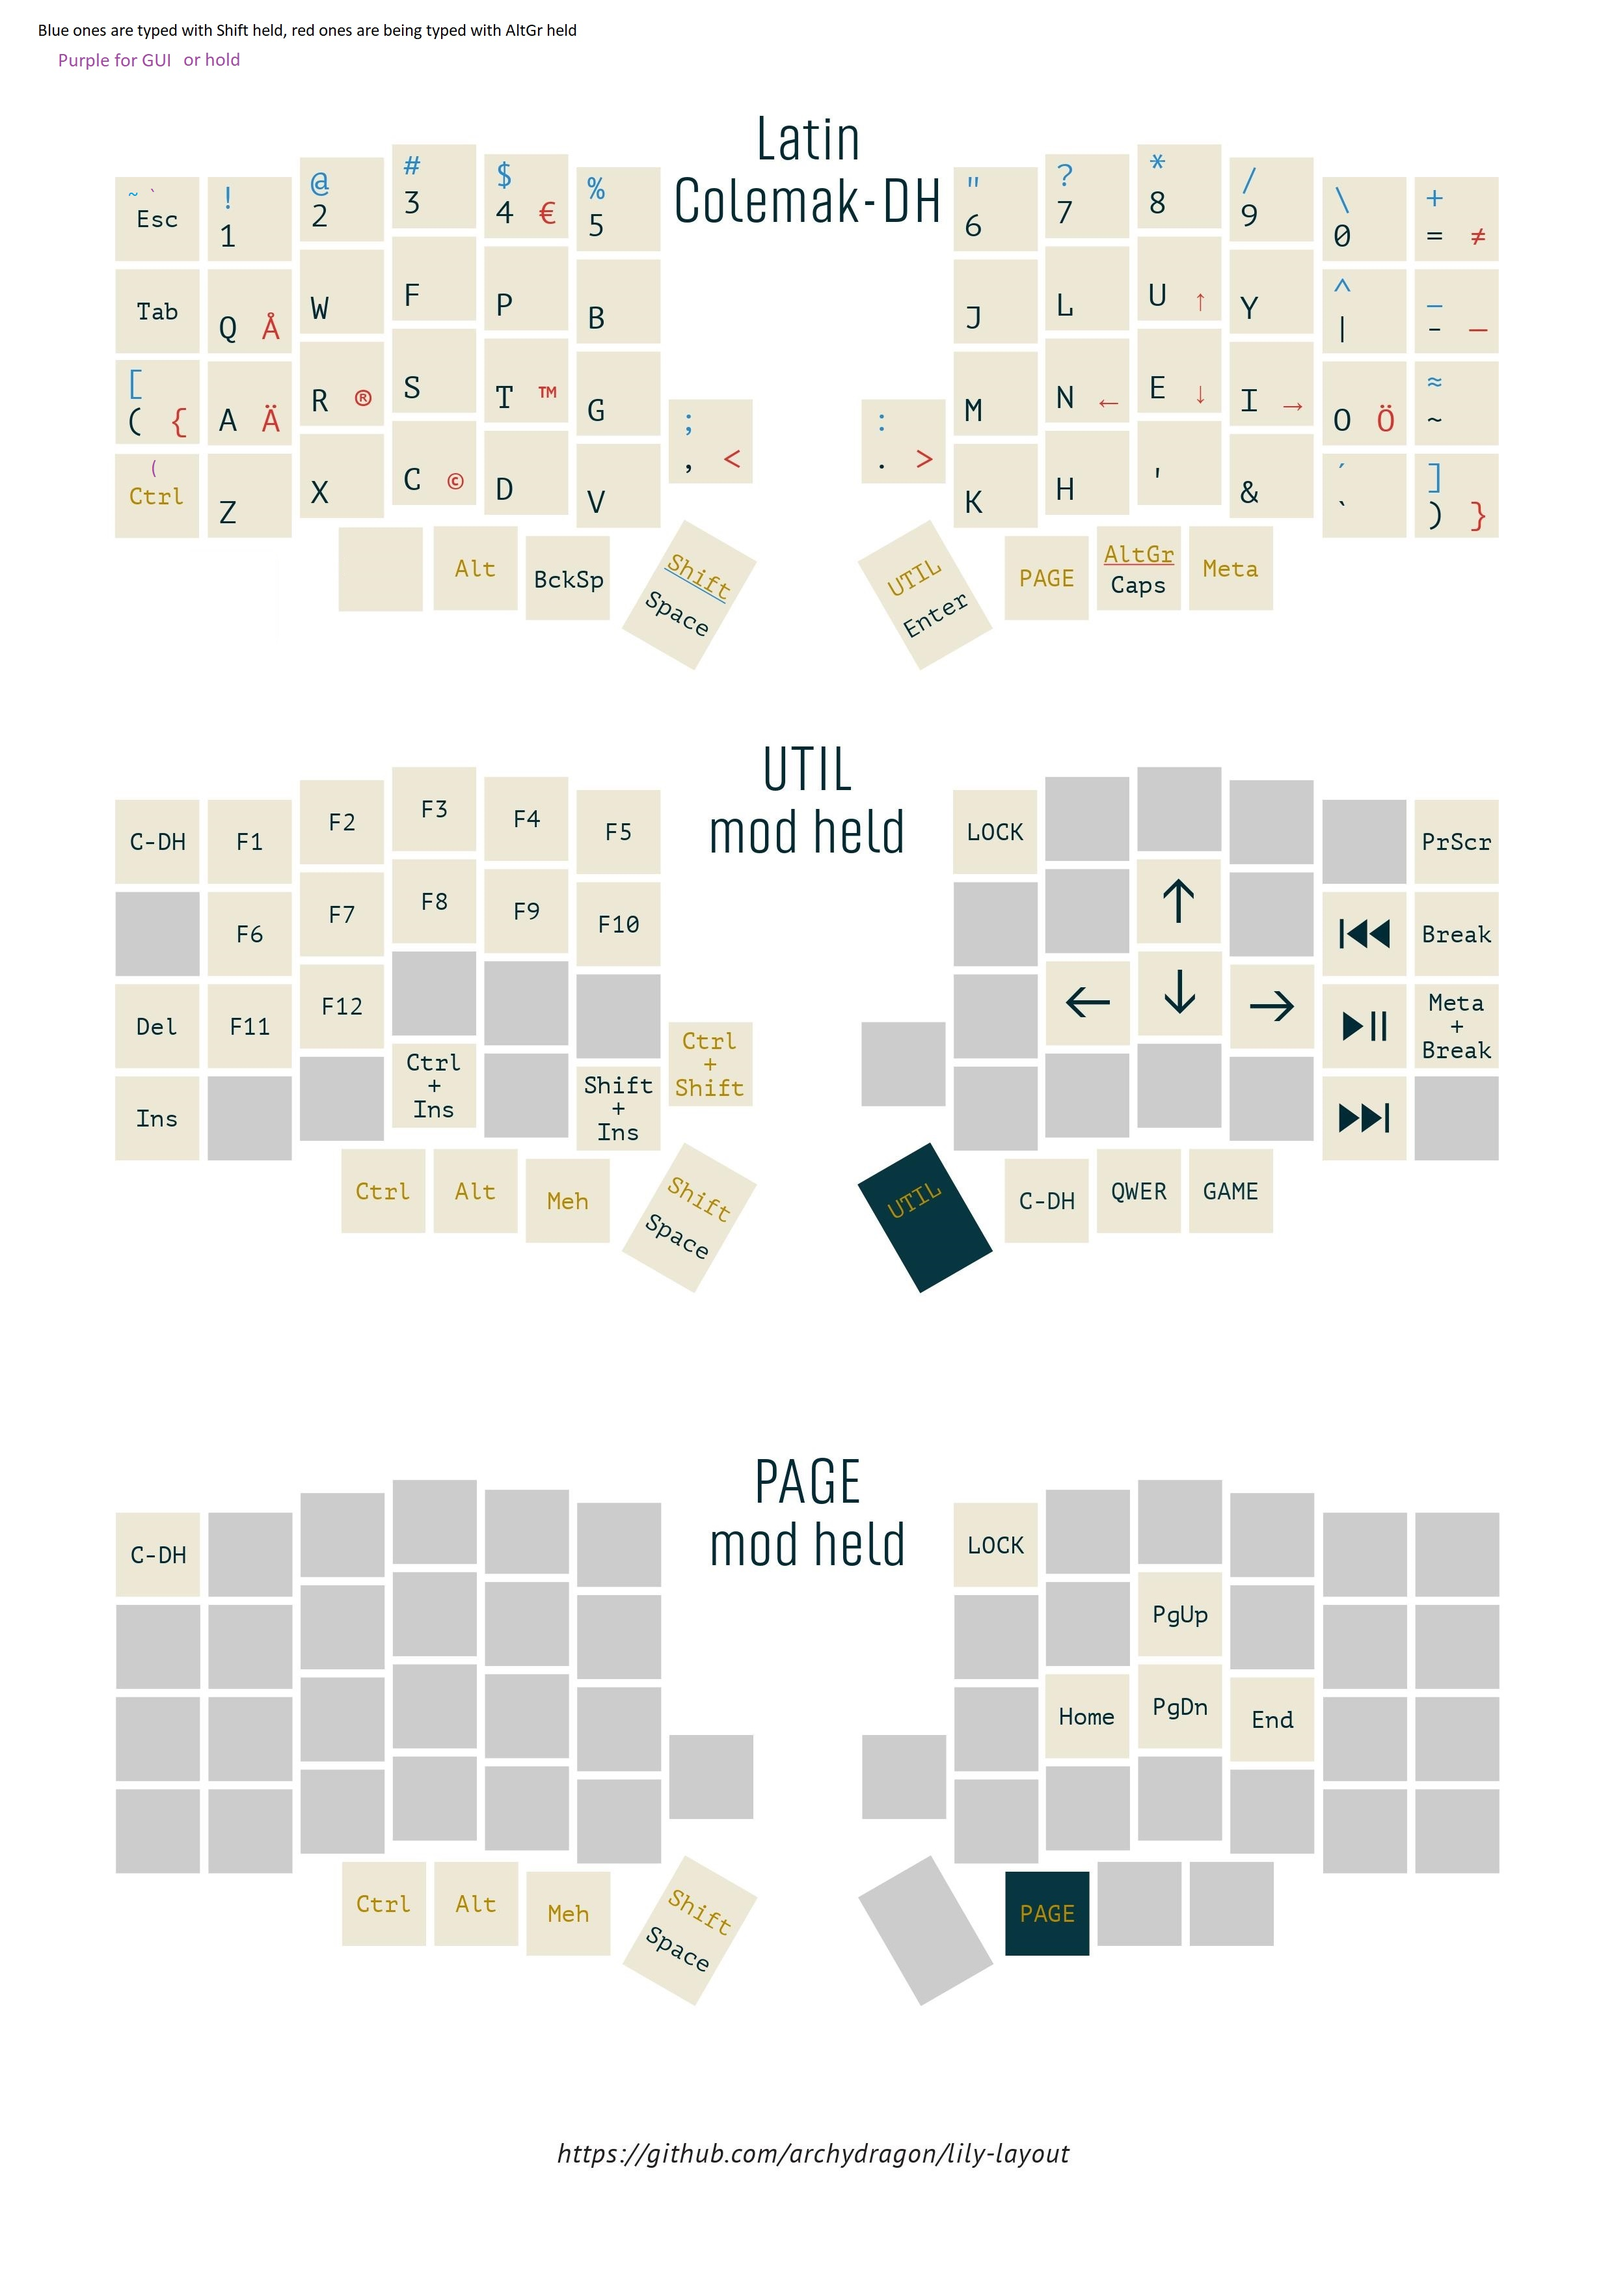
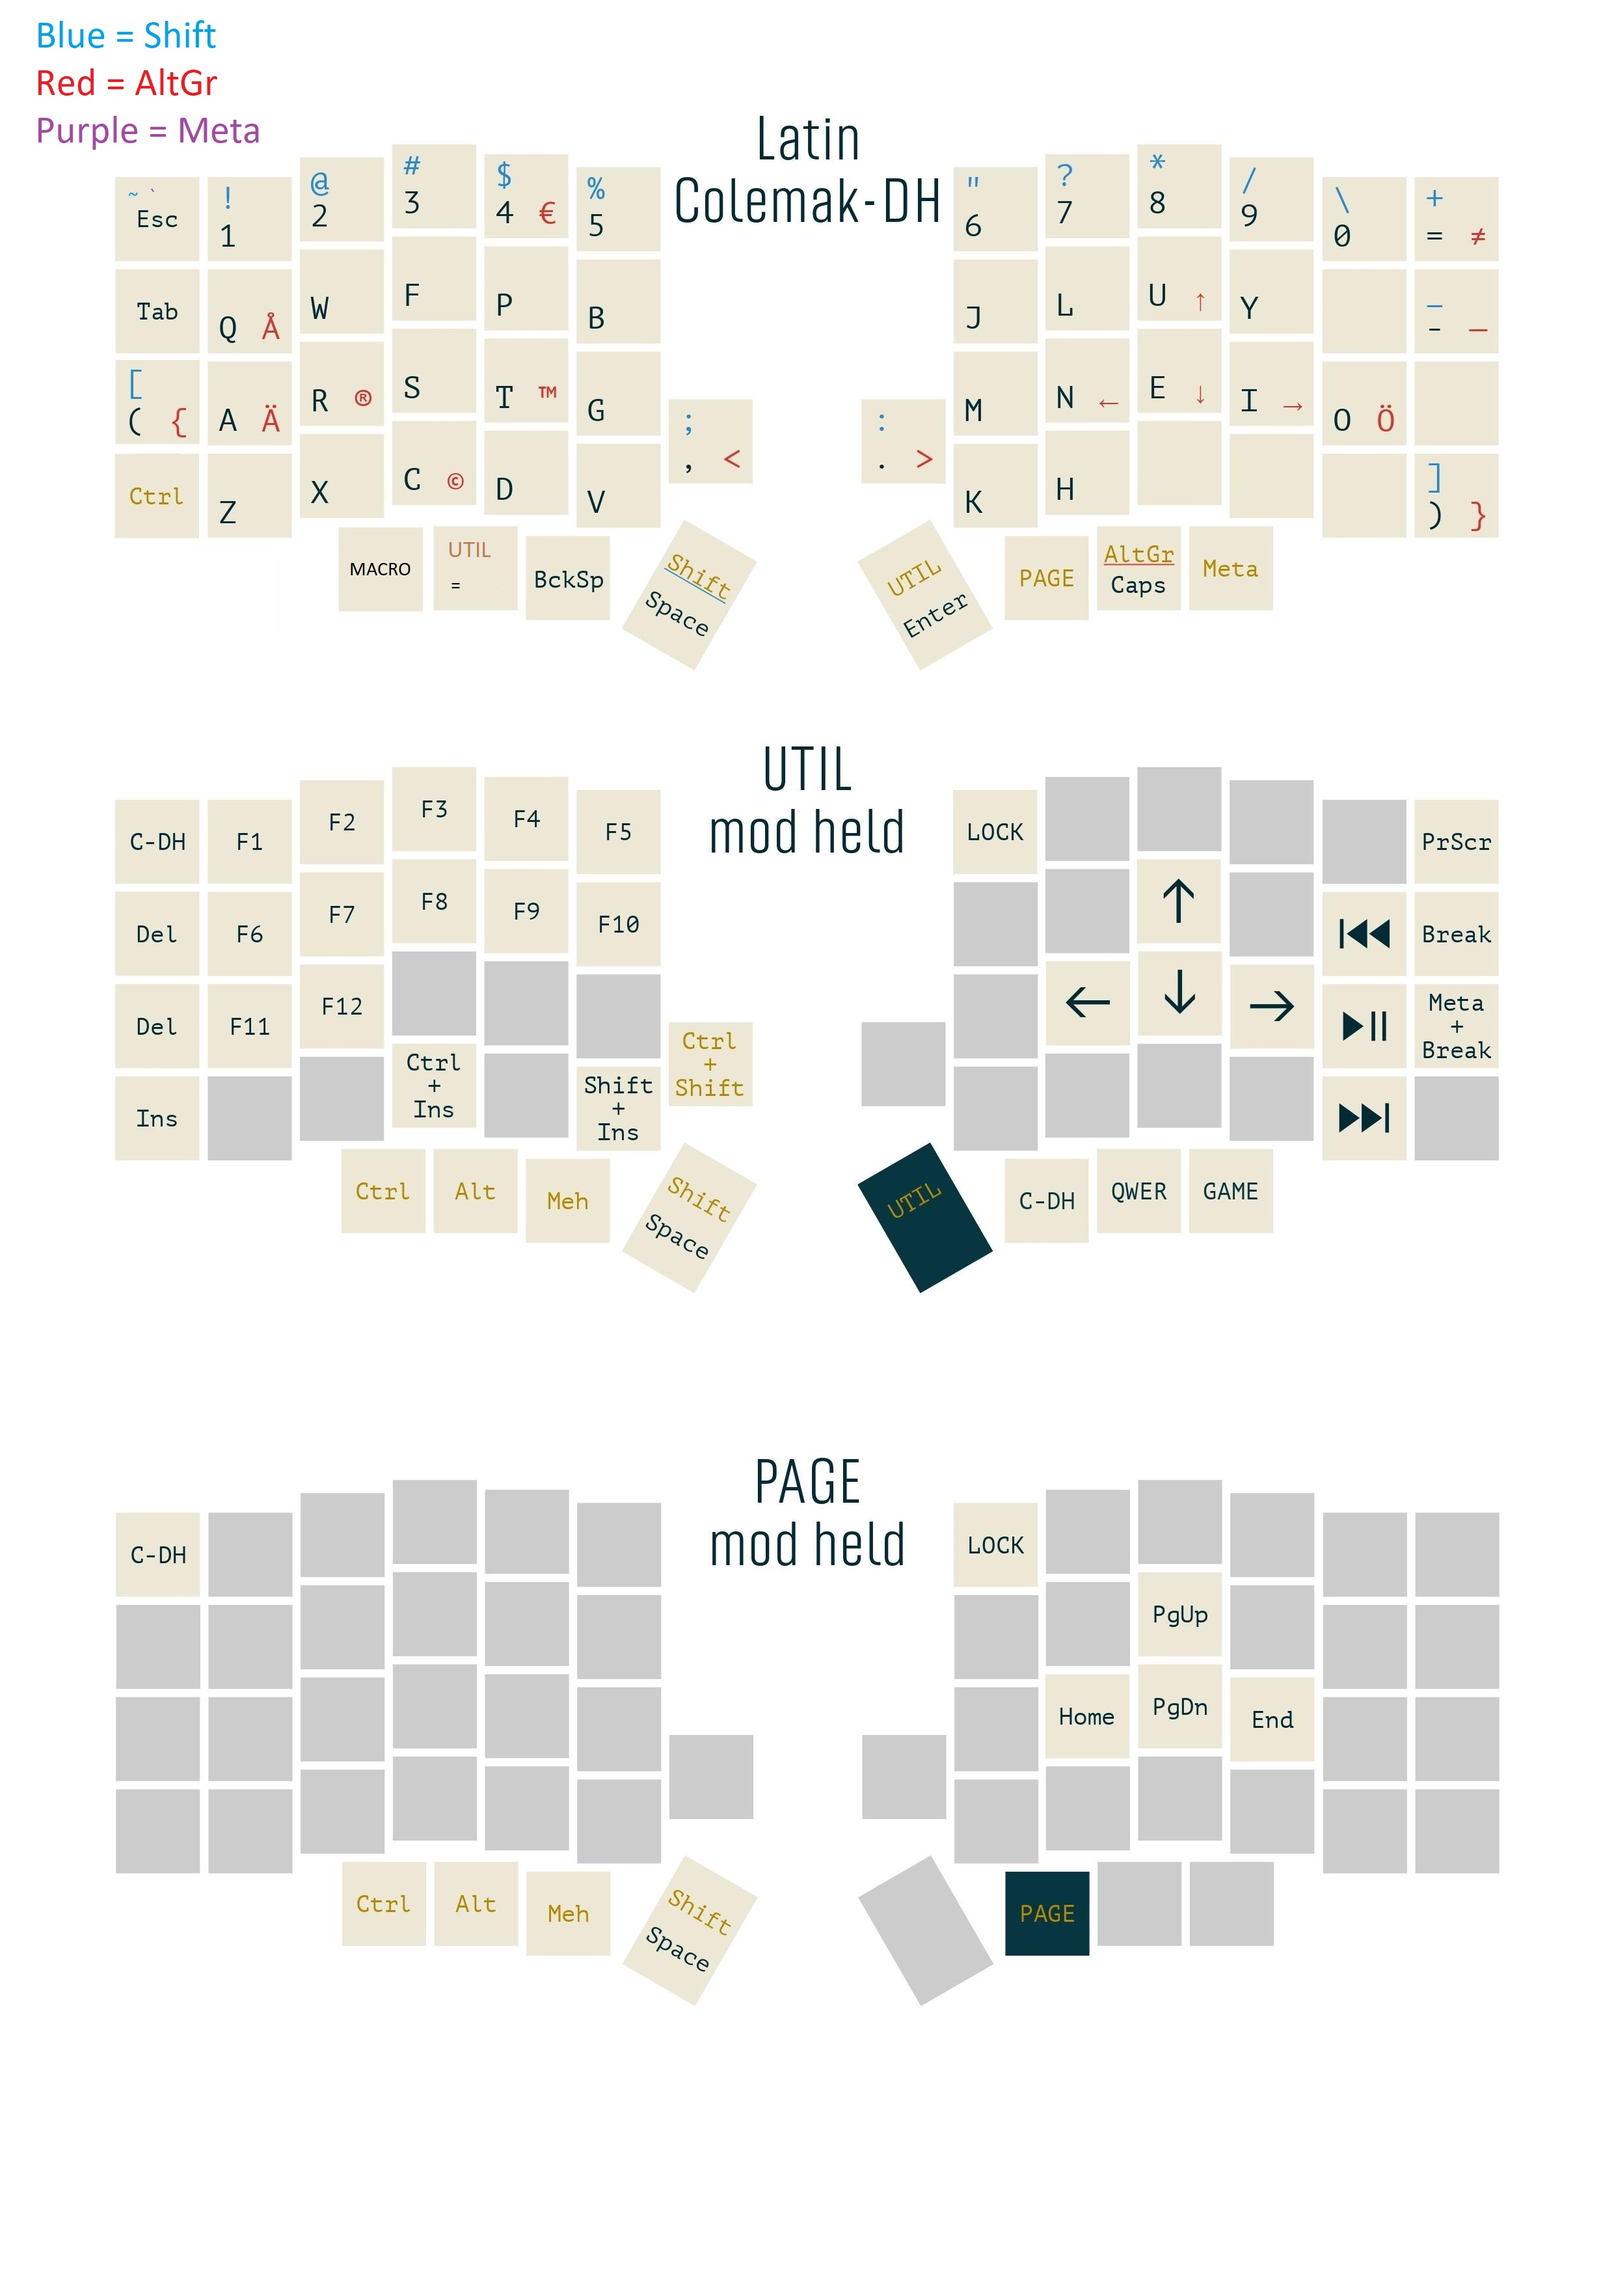
keys tuning and copy/paste macro

Changed region(s): [[0.031, 0.0, 0.1552, 0.0621], [0.0621, 0.3729, 0.1241, 0.435]]

diff --git a/keymap.c b/keymap.c
@@ -6,6 +6,7 @@
 #include "oled.c"
 #include "oled_animations.c"
 
+#include "macros.c"
 
 // clang-format off
 const uint16_t PROGMEM keymaps[][MATRIX_ROWS][MATRIX_COLS] = {
@@ -14,11 +15,11 @@ const uint16_t PROGMEM keymaps[][MATRIX_ROWS][MATRIX_COLS] = {
  * ,-----------------------------------------.                    ,-----------------------------------------.
  * |ESC`~ |   1  |   2  |   3  |   4  |   5  |                    |   6  |   7  |   8  |   9  |   0  |  =   |
  * |------+------+------+------+------+------|                    |------+------+------+------+------+------|
- * | Tab  |   Q  |   W  |   F  |   P  |   B  |                    |   J  |   L  |   U  |   Y  |   ;  |  -   |
+ * | Tab  |   Q  |   W  |   F  |   P  |   B  |                    |   J  |   L  |   U  |   Y  |   `  |  -   |
  * |------+------+------+------+------+------|                    |------+------+------+------+------+------|
- * | [    |   A  |   R  |   S  |   T  |   G  |-------.    ,-------|   M  |   N  |   E  |   I  |   O  |  `   |
+ * | [    |   A  |   R  |   S  |   T  |   G  |-------.    ,-------|   M  |   N  |   E  |   I  |   O  |  ;   |
  * |------+------+------+------+------+------|   ,   |    |    .  |------+------+------+------+------+------|
- * |LCtl (|   Z  |   X  |   C  |   D  |   V  |-------|    |-------|   K  |   H  |   '  |   \  |   /  |  ]   |
+ * | LCtl |   Z  |   X  |   C  |   D  |   V  |-------|    |-------|   K  |   H  |   '  |   \  |   /  |  ]   |
  * `-----------------------------------------/ LShift/     \ UTIL \-----------------------------------------'
  *                   | Meh | LAlt/{ |  BcSp | /[Space]/       \[Entr]\  | PAGE | RAlt | LGUI |
  *                   |     |         |      |/       /         \      \ |      |[Caps]|      |
@@ -27,10 +28,10 @@ const uint16_t PROGMEM keymaps[][MATRIX_ROWS][MATRIX_COLS] = {
 
  [_COLEMAK] = LAYOUT( \
    KC_GESC, KC_1, KC_2,    KC_3,    KC_4,   KC_5,                                    KC_6,      KC_7,            KC_8,    KC_9,    KC_0,    KC_EQL,  \
-   KC_TAB, KC_Q, KC_W,    KC_F,    KC_P,   KC_B,                                    KC_J,      KC_L,            KC_U,    KC_Y,    KC_SCLN, KC_MINS, \
-  KC_LBRC, KC_A, KC_R,    KC_S,    KC_T,   KC_G,                                    KC_M,      KC_N,            KC_E,    KC_I,    KC_O,    KC_GRV,  \
-  KC_LCPO, KC_Z, KC_X,    KC_C,    KC_D,   KC_V,        KC_COMM,  KC_DOT,           KC_K,      KC_H,            KC_QUOT, KC_BSLS, KC_SLSH, KC_RBRC, \
-                  KC_MEH,   KC_LALT, KC_BSPC, LSFT_T(KC_SPC),  LT(_UTIL,KC_ENT), MO(_PAGE), RALT_T(KC_CAPS), KC_LGUI \
+   KC_TAB, KC_Q, KC_W,    KC_F,    KC_P,   KC_B,                                    KC_J,      KC_L,            KC_U,    KC_Y,    KC_GRV, KC_MINS, \
+  KC_LBRC, KC_A, KC_R,    KC_S,    KC_T,   KC_G,                                    KC_M,      KC_N,            KC_E,    KC_I,    KC_O,    KC_SCLN,  \
+  KC_LCPO, KC_Z, KC_X,    KC_C,    KC_D,   KC_V,        KC_COMM,  KC_DOT,           KC_K,      KC_H,            KC_QUOT, KC_BSLS, KC_SLSH, KC_LCTRL, \
+          COPY_MACRO, LT(_UTIL, KC_KP_EQUAL), KC_BSPC, LSFT_T(KC_SPC),  LT(_UTIL,KC_ENT), MO(_PAGE), RALT_T(KC_CAPS), KC_LGUI \
 ),
 
 /* QWERTY
@@ -96,7 +97,7 @@ const uint16_t PROGMEM keymaps[][MATRIX_ROWS][MATRIX_COLS] = {
 
 [_UTIL] = LAYOUT( \
   DF(_COLEMAK),   KC_F1,   KC_F2,        KC_F3,   KC_F4,        KC_F5,                           DF(_UTIL), _______, _______, _______,  _______, KC_PSCR,       \
-       _______,   KC_F6,   KC_F7,        KC_F8,   KC_F9,       KC_F10,                           _______,   _______, KC_UP,   _______,  KC_MPRV, KC_PAUS,       \
+       KC_DEL,   KC_F6,   KC_F7,        KC_F8,   KC_F9,       KC_F10,                           _______,   _______, KC_UP,   _______,  KC_MPRV, KC_PAUS,       \
         KC_DEL,  KC_F11,  KC_F12,      _______, _______,      _______,                           _______,   KC_LEFT, KC_DOWN, KC_RGHT,  KC_MPLY, RGUI(KC_PAUS), \
         KC_INS, _______, _______, LCTL(KC_INS), _______, LSFT(KC_INS), C_S_T(KC_LSFT),  _______, _______,   _______, _______,  _______, KC_MNXT, _______,       \
                                        KC_TRNS, KC_TRNS,      KC_TRNS,        KC_TRNS,  _______, COLEMAK,   QWERTY,  GAME \

diff --git a/macros.c b/macros.c
@@ -1,0 +1,46 @@
+bool is_copied = false;
+
+bool process_record_user(uint16_t keycode, keyrecord_t *record)
+{
+    switch (keycode)
+    {
+    case COLEMAK:
+        if (record->event.pressed)
+        {
+            layer_clear();
+            layer_on(_COLEMAK);
+        }
+        return false;
+    case QWERTY:
+        if (record->event.pressed)
+        {
+            layer_clear();
+            layer_on(_QWERTY);
+        }
+        return false;
+    case GAME:
+        if (record->event.pressed)
+        {
+            layer_clear();
+            layer_on(_GAME);
+        }
+        return false;
+    case COPY_MACRO:
+        if (record->event.pressed)
+        {
+            if (!is_copied)
+            {
+                is_copied = true;
+                tap_code16(LCTL(KC_C));
+            }
+            else
+            {
+                tap_code16(LCTL(KC_V));
+                is_copied = false;
+            }
+        }
+        return false;
+    }
+
+    return true;
+}

diff --git a/oled_animations.c b/oled_animations.c
@@ -37,34 +37,3 @@ void oled_task_user(void)
         render_status_secondary();
     }
 }
-
-// Oled Wakes
-bool process_record_user(uint16_t keycode, keyrecord_t *record)
-{
-    switch (keycode)
-    {
-    case COLEMAK:
-        if (record->event.pressed)
-        {
-            layer_clear();
-            layer_on(_COLEMAK);
-        }
-        return false;
-    case QWERTY:
-        if (record->event.pressed)
-        {
-            layer_clear();
-            layer_on(_QWERTY);
-        }
-        return false;
-    case GAME:
-        if (record->event.pressed)
-        {
-            layer_clear();
-            layer_on(_GAME);
-        }
-        return false;
-    }
-
-    return true;
-}

diff --git a/oled.c b/oled.c
@@ -7,7 +7,7 @@ void render_space(void) { oled_write_P(PSTR("     "), false); }
 void render_logo(void)
 {
     oled_write_P(PSTR("fare:"), false);
-    oled_write_P(PSTR("rev.3"), false);
+    oled_write_P(PSTR("rev.4"), false);
 }
 
 // Alt modifiers

diff --git a/layers.h b/layers.h
@@ -11,10 +11,14 @@ enum my_lily_layers {
     _ADJUST,
 };
 
-enum my_lily_keycodes {
+enum my_lily_keycodes
+{
     COLEMAK = SAFE_RANGE,
     QWERTY,
-    GAME
+    GAME,
+
+    // macros
+    COPY_MACRO
 };
 
 // Layers States
